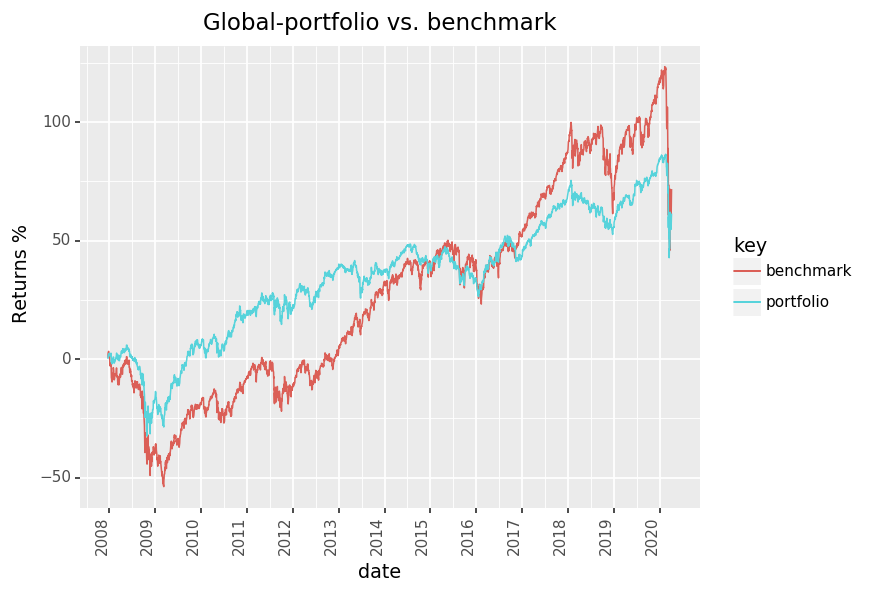
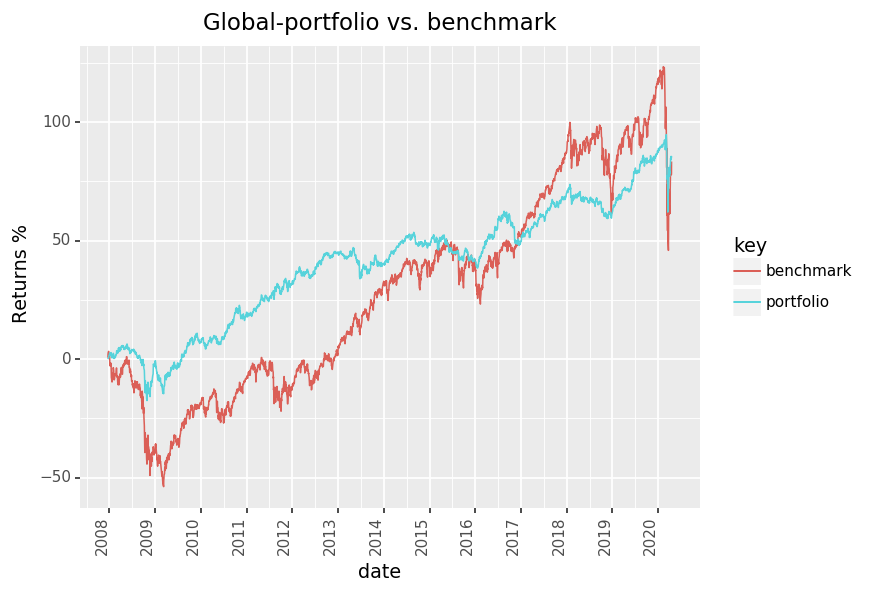
latest global results

diff --git a/assess-portfolio-historic-performance.py b/assess-portfolio-historic-performance.py
@@ -8,6 +8,7 @@ from datetime import datetime
 import warnings
 import os
 
+
 def get_daily_portfolio_returns(daily_log_returns, final_ticker_weights):
     """
     Inputs:
@@ -21,19 +22,23 @@ def get_daily_portfolio_returns(daily_log_returns, final_ticker_weights):
     # need ticker simple returns to combine as weighted portfolio simple returns
     daily_simple_returns = daily_log_returns.apply(np.exp) - 1
     R = daily_simple_returns
+    # make sure the R's columns (asset tickers) are in the same order as w's rows (assets tickers)
+    R = R[list(final_ticker_weights['ticker'])]
     w = final_ticker_weights['weight']
     # matrix multiplication to get weighted simple return for each day
     portfolio_simple_returns = R.to_numpy() @ w.to_numpy()
     portfolio_simple_returns = \
-        pd.DataFrame({'portfolio_simple_returns': portfolio_simple_returns}, \
-        index=daily_simple_returns.index)
+        pd.DataFrame({'portfolio_simple_returns': portfolio_simple_returns},
+                     index=daily_simple_returns.index)
     portfolio_cumulative_returns = (1 + portfolio_simple_returns).cumprod() - 1
     portfolio_cumulative_returns = portfolio_cumulative_returns. \
-                                rename(columns={"portfolio_simple_returns": "returns"})
+        rename(columns={"portfolio_simple_returns": "returns"})
     return portfolio_simple_returns, portfolio_cumulative_returns
 
+
 def plot_portfolio_vs_benchmark(cumulative_returns, benchmark_cum_returns):
-    benchmark_cum_returns = benchmark_cum_returns.rename(columns={"benchmark": "returns"})
+    benchmark_cum_returns = benchmark_cum_returns.rename(
+        columns={"benchmark": "returns"})
     benchmark_cum_returns['key'] = "benchmark"
     cumulative_returns['key'] = "portfolio"
     cumulative_returns["returns"] = cumulative_returns["returns"]
@@ -43,17 +48,18 @@ def plot_portfolio_vs_benchmark(cumulative_returns, benchmark_cum_returns):
     df['returns'] = df['returns']*100
     warnings.filterwarnings('ignore')
     df.to_csv(data_path+portfolio_name
-                        +'returns.csv', header = True)
+              + 'returns.csv', header=True)
     r = (ggplot(df)
-         + aes(x = 'date', y = 'returns', color='key', group='key')
+         + aes(x='date', y='returns', color='key', group='key')
          + geom_line()
-         + scale_x_datetime(breaks=date_breaks('1 years'), labels=date_format('%Y'))
+         + scale_x_datetime(breaks=date_breaks('1 years'),
+                            labels=date_format('%Y'))
          + theme(axis_text_x=element_text(rotation=90, hjust=1))
          + labs(title=portfolio_name+'portfolio vs. benchmark',
-                y = 'Returns %')
+                y='Returns %')
          )
-    r.save(filename=portfolio_name+'returns.png', \
-            format="png", path=results_path, width = 6.4, height = 4.8, dpi=125)
+    r.save(filename=portfolio_name+'returns.png',
+           format="png", path=results_path, width=6.4, height=4.8, dpi=125)
     warnings.filterwarnings('default')
 
 
@@ -63,58 +69,66 @@ def plot_drawdowns(cumulative_returns, benchmark_cum_returns):
     that maximum cumulative return, in effect, measured from peak equity."""
     benchmark_drawdown = get_drawdown(benchmark_cum_returns)
     benchmark_drawdown = benchmark_drawdown.to_frame()
-    benchmark_drawdown = benchmark_drawdown.rename(columns={"benchmark": "drawdown"})
+    benchmark_drawdown = benchmark_drawdown.rename(
+        columns={"benchmark": "drawdown"})
     benchmark_drawdown['key'] = "benchmark"
     benchmark_drawdown.index.name = 'date'
     benchmark_drawdown.reset_index(level=0, inplace=True)
     portfolio_drawdown = get_drawdown(cumulative_returns)
     portfolio_drawdown = portfolio_drawdown.to_frame()
     portfolio_drawdown['key'] = "portfolio"
-    portfolio_drawdown = portfolio_drawdown.rename(columns={"returns": "drawdown"})
+    portfolio_drawdown = portfolio_drawdown.rename(
+        columns={"returns": "drawdown"})
     portfolio_drawdown.index.name = 'date'
     portfolio_drawdown.reset_index(level=0, inplace=True)
     mask = benchmark_drawdown.date.isin(portfolio_drawdown.date)
     benchmark_drawdown = benchmark_drawdown[mask]
     df = portfolio_drawdown.append(benchmark_drawdown)
     df.to_csv(data_path+portfolio_name
-                        +'drawdowns.csv', header = True)
+              + 'drawdowns.csv', header=True)
     warnings.filterwarnings('ignore')
     d = (ggplot(df)
-         + aes(x = 'date', y = 'drawdown', color='key', group='key')
+         + aes(x='date', y='drawdown', color='key', group='key')
          + geom_line()
-         + scale_x_datetime(breaks=date_breaks('1 years'), labels=date_format('%Y'))
+         + scale_x_datetime(breaks=date_breaks('1 years'),
+                            labels=date_format('%Y'))
          + theme(axis_text_x=element_text(rotation=90, hjust=1))
          + labs(title=portfolio_name+'portfolio vs. benchmark',
-                y = 'Drawdown % (change peak to trough)')
+                y='Drawdown % (change peak to trough)')
          )
-    d.save(filename=portfolio_name+'drawdowns.png', \
-        format="png", path=results_path, width = 6.4, height = 4.8, dpi=125)
+    d.save(filename=portfolio_name+'drawdowns.png',
+           format="png", path=results_path, width=6.4, height=4.8, dpi=125)
     warnings.filterwarnings('default')
 
 
-def get_portfolio_stats(cumulative_returns, simple_returns, \
+def get_portfolio_stats(cumulative_returns, simple_returns,
                         benchmark_cum_returns, benchmark_simple_returns):
     portfolio_max_drawdown = get_max_drawdown(cumulative_returns)/100
     benchmark_max_drawdown = get_max_drawdown(benchmark_cum_returns)/100
-    max_drawdown = combine_into_df(portfolio_max_drawdown, benchmark_max_drawdown, "max_drawdown")
+    max_drawdown = combine_into_df(
+        portfolio_max_drawdown, benchmark_max_drawdown, "max_drawdown")
     portfolio_r_r_ratio = get_return_risk_ratio(simple_returns)
     benchmark_r_r_ratio = get_return_risk_ratio(benchmark_simple_returns)
-    r_r_ratio = combine_into_df(portfolio_r_r_ratio, benchmark_r_r_ratio, "return_risk_ratio")
+    r_r_ratio = combine_into_df(
+        portfolio_r_r_ratio, benchmark_r_r_ratio, "return_risk_ratio")
     portfolio_cagr = get_cagr(cumulative_returns)
     benchmark_cagr = get_cagr(benchmark_cum_returns)
     cagr = combine_into_df(portfolio_cagr, benchmark_cagr, "annual_return")
     portfolio_stats = cagr.join(max_drawdown).join(r_r_ratio)
     portfolio_stats.to_csv(results_path+portfolio_name
-                        +'performance_stats.csv', header = True)
+                           + 'performance_stats.csv', header=True)
+
 
 def combine_into_df(portfolio_stat, benchmark_stat, stat_name):
-    df = (pd.Series(portfolio_stat).append(pd.Series(benchmark_stat))).to_frame()
+    df = (pd.Series(portfolio_stat).append(
+        pd.Series(benchmark_stat))).to_frame()
     df = df.set_index(pd.Index(['portfolio', 'benchmark']))
     df = df.rename(columns={0: stat_name})
     return df
 
+
 def get_cagr(cum_returns):
-    cum_returns = cum_returns.iloc[:, 0] # change it to a Series
+    cum_returns = cum_returns.iloc[:, 0]  # change it to a Series
     date_format = "%Y-%m-%d"
     a = datetime.strptime(cum_returns.index[0], date_format)
     b = datetime.strptime(cum_returns.index[-1], date_format)
@@ -123,22 +137,26 @@ def get_cagr(cum_returns):
     annual_return = (1 + total_return)**(1/num_years) - 1
     return annual_return
 
+
 def get_max_drawdown(cum_returns):
-    cum_returns = cum_returns.iloc[:, 0] # change it to a Series:
+    cum_returns = cum_returns.iloc[:, 0]  # change it to a Series:
     cum_returns = cum_returns+1
     max_return = cum_returns.cummax()
     drawdown = cum_returns.sub(max_return).div(max_return)*100
     return drawdown.min()
 
+
 def get_drawdown(cum_returns):
-    cum_returns = cum_returns.iloc[:, 0] # change it to a Series:
+    cum_returns = cum_returns.iloc[:, 0]  # change it to a Series:
     cum_returns = cum_returns+1
     max_return = cum_returns.cummax()
     drawdown = cum_returns.sub(max_return).div(max_return)*100
     return drawdown
 
+
 def get_return_risk_ratio(returns_non_cumulative):
     return np.mean(returns_non_cumulative) / np.std(returns_non_cumulative)
+
 
 def main():
     global portfolio_name, data_path, results_path
@@ -150,16 +168,16 @@ def main():
         os.makedirs(results_path)
     # The daily_log_returns .csv was saved during get-ticker-time-series.py
     daily_log_returns = pd.read_csv(data_path+portfolio_name
-                                    +'daily-log-returns-per-ticker.csv', index_col = 0)
+                                    + 'daily-log-returns-per-ticker.csv', index_col=0)
     benchmark_simple_returns = pd.read_csv(data_path+portfolio_name
-                                        +'benchmark-simple-returns.csv', index_col = 0)
+                                           + 'benchmark-simple-returns.csv', index_col=0)
     benchmark_cum_returns = (1 + benchmark_simple_returns).cumprod() - 1
 
     final_ticker_weights = pd.read_csv(results_path+portfolio_name
-                                    +'final-ticker-weights.csv')
+                                       + 'final-ticker-weights.csv')
     simple_returns, cumulative_returns = \
         get_daily_portfolio_returns(daily_log_returns, final_ticker_weights)
-    get_portfolio_stats(cumulative_returns, simple_returns, \
+    get_portfolio_stats(cumulative_returns, simple_returns,
                         benchmark_cum_returns, benchmark_simple_returns)
     # plotnine has annoying warnings, couldn't figure out how to suppress
     plot_portfolio_vs_benchmark(cumulative_returns, benchmark_cum_returns)
